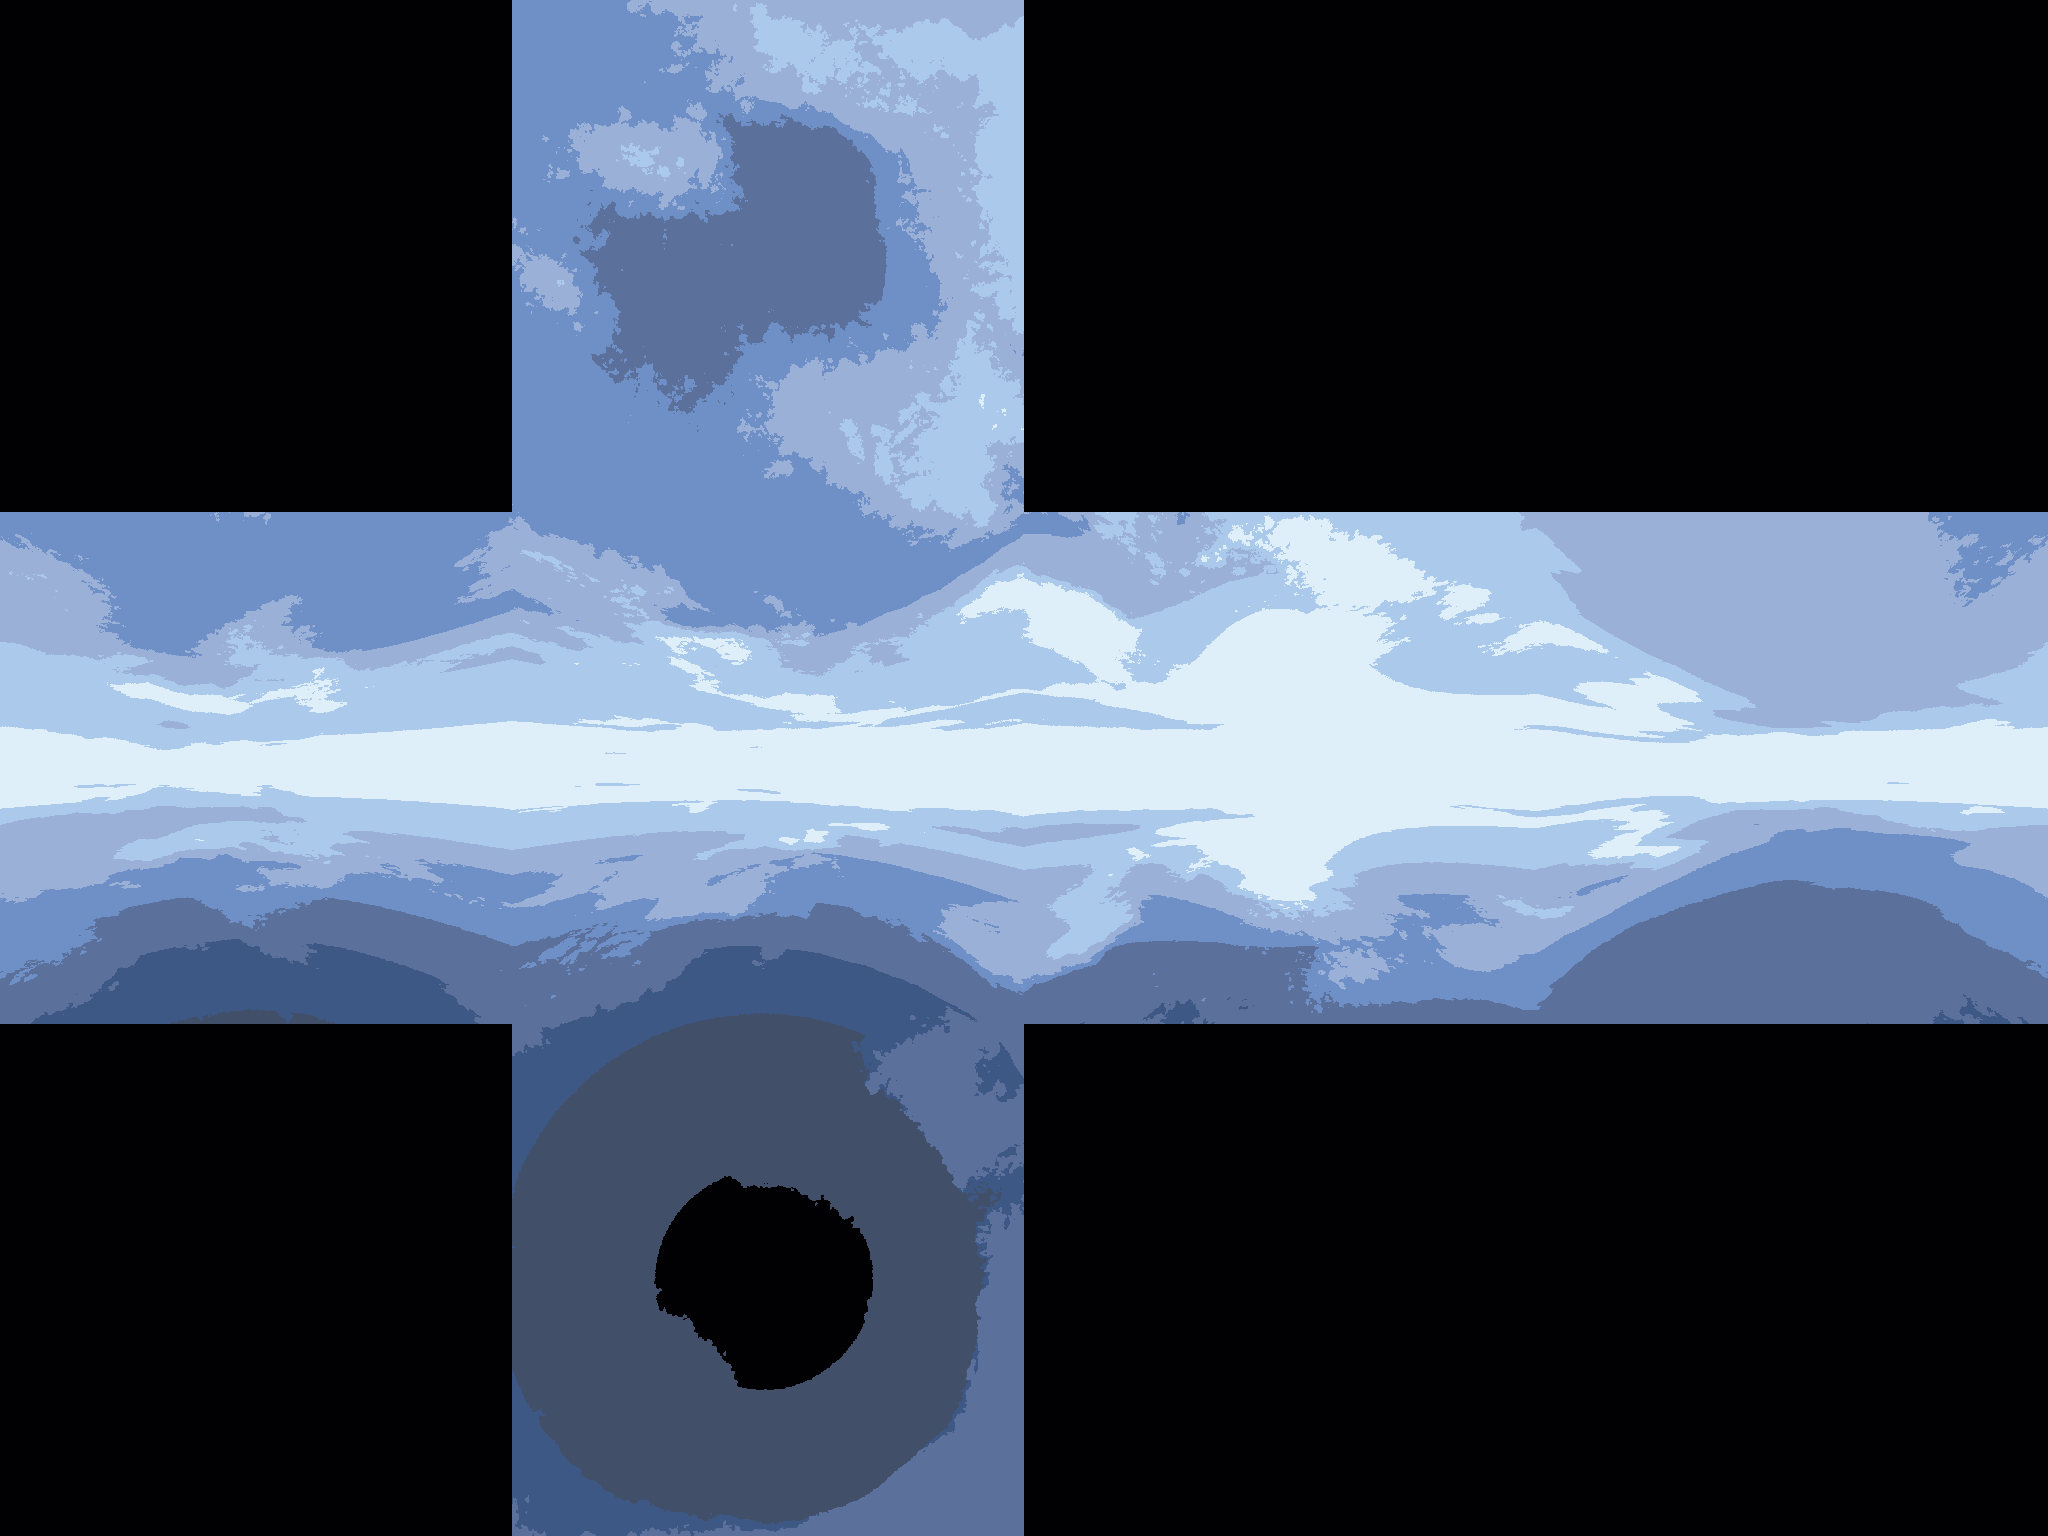
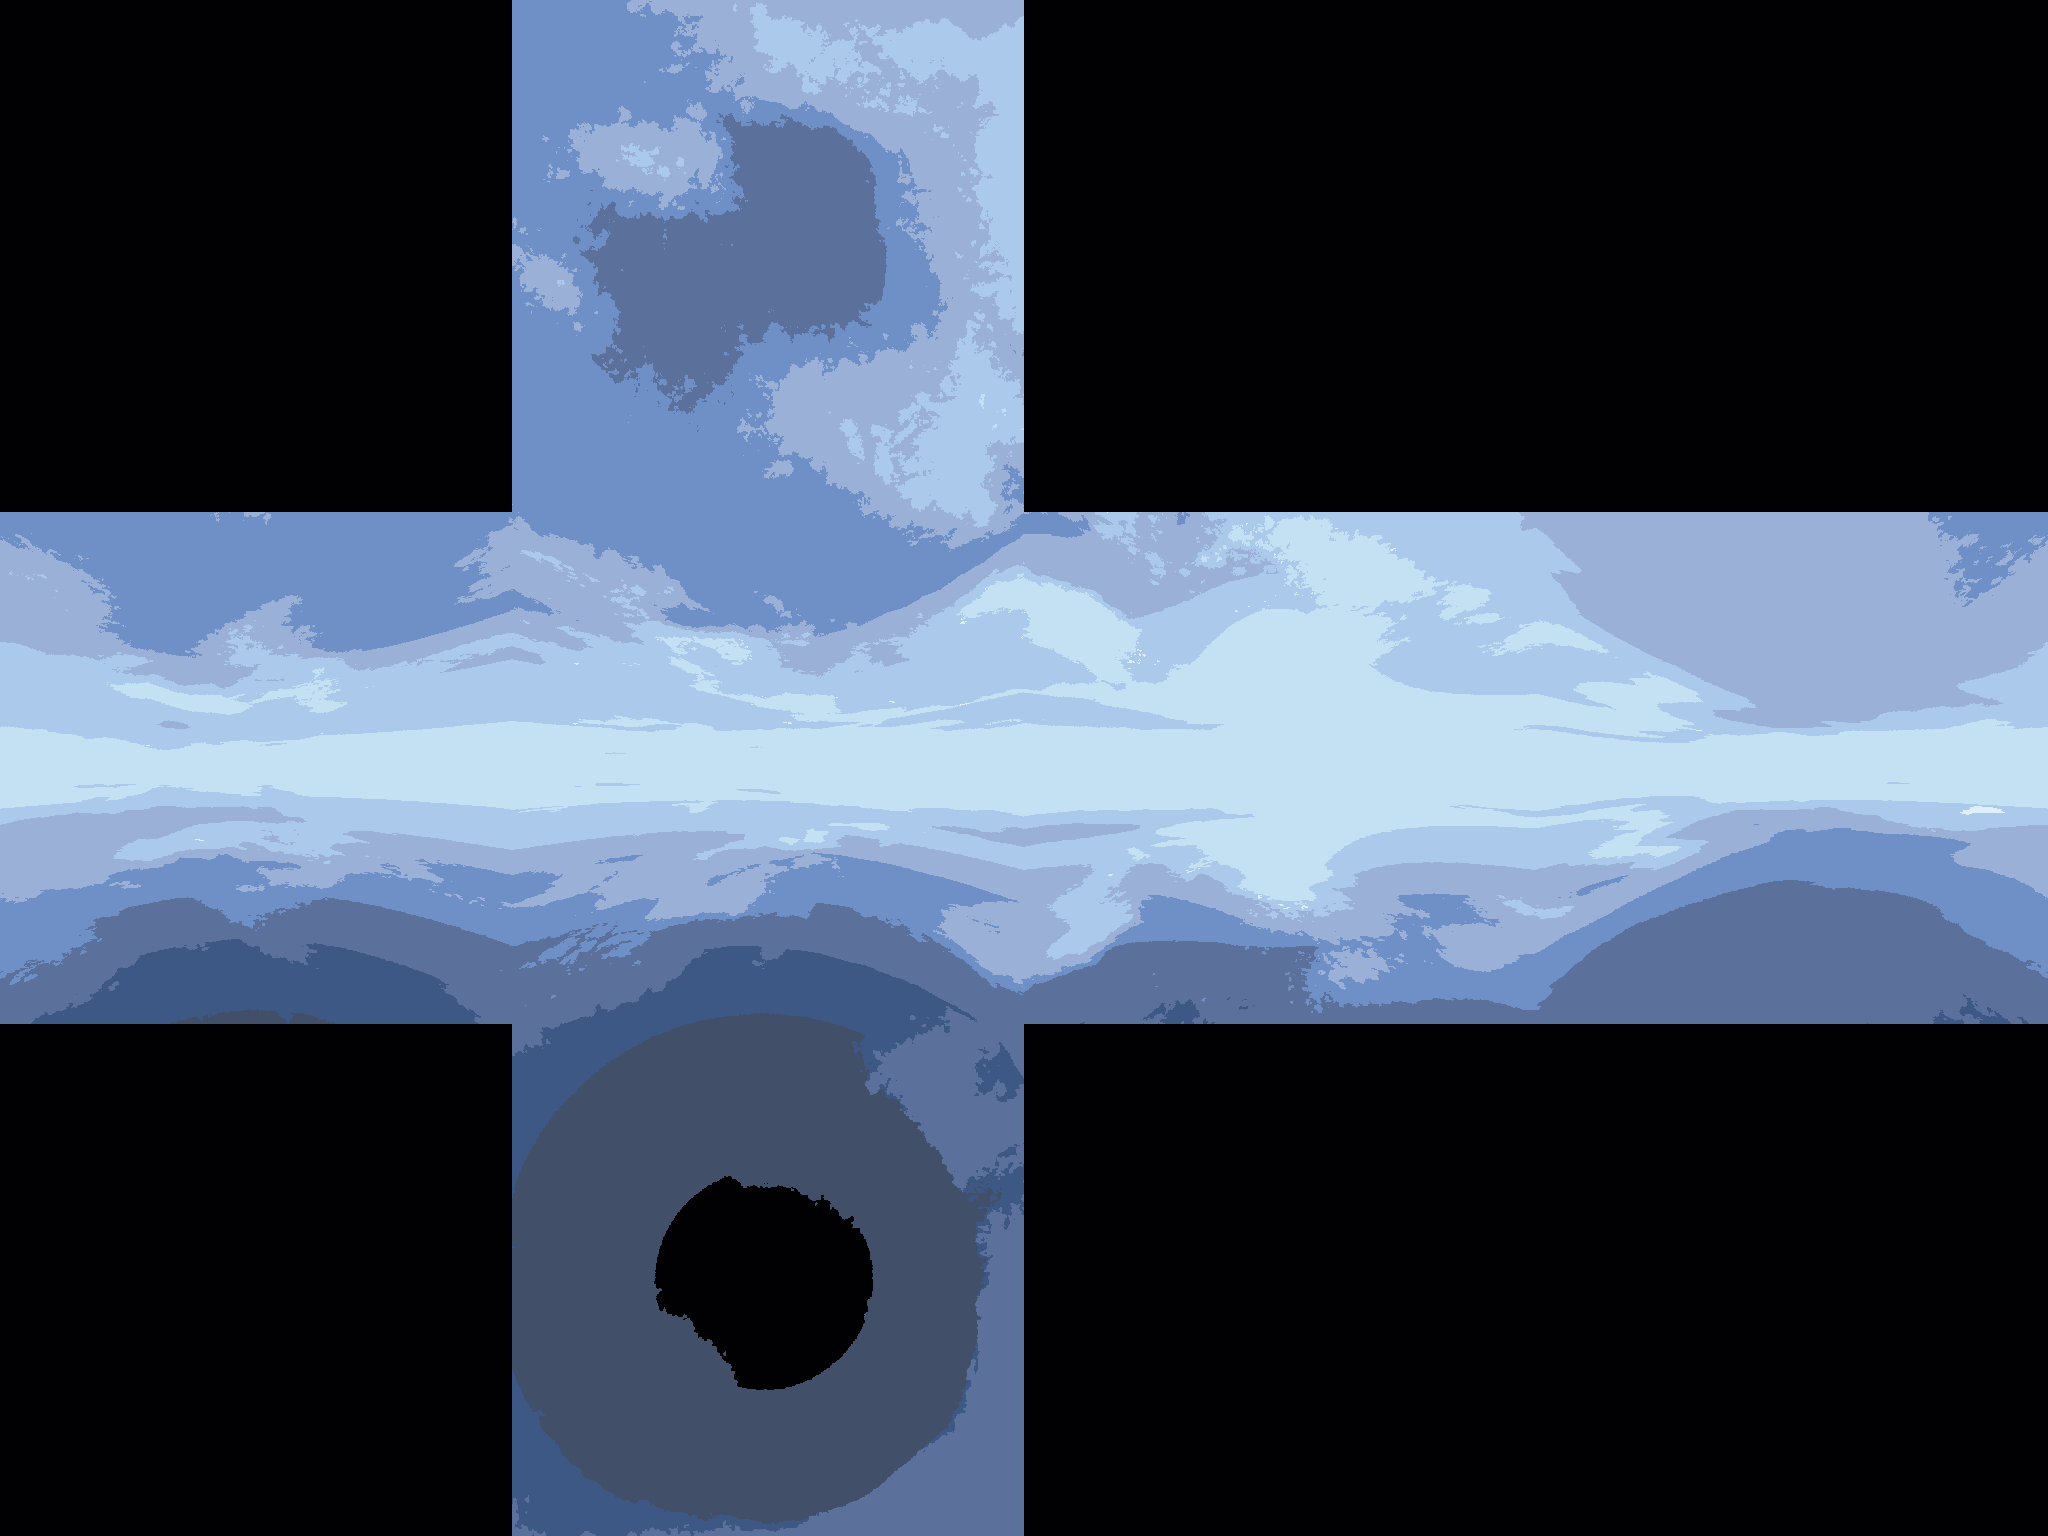
texture changes

Changed region(s): [[0.0, 0.3125, 1.0, 0.5938]]

diff --git a/block_byte_client/src/main.rs b/block_byte_client/src/main.rs
@@ -7,7 +7,7 @@ use std::{
     cell::RefCell,
     collections::{BinaryHeap, HashMap, HashSet},
     fmt::format,
-    hash::Hash,
+    hash::{Hash, Hasher},
     net::{SocketAddr, UdpSocket},
     ops::ControlFlow,
     path::Path,
@@ -34,6 +34,7 @@ use block_byte_common::{
         ModelData, ModelInstance, ModelKey, Registry, ResearchKey, TextureData, TextureKey,
         ToolData, TranslationLanguageData, air_block, load_registries,
     },
+    rotation::BlockRotation,
     ui::{PropertyMap, SlotId},
     world::{self, ClientBlockComponentUpdate, ClientChunkBlockComponents},
 };
@@ -1021,12 +1022,9 @@ impl TextureAtlas {
             );
             packer.pack_own(key, new_image);
         };
-        let skip_list = KeyGroup::<TextureData>::parse("#skip");
         for (i, texture) in TextureKey::entries().enumerate() {
-            if let Some(skip_list) = &skip_list {
-                if skip_list.contains(texture) {
-                    continue;
-                }
+            if texture.text_id().ends_with("!") {
+                continue;
             }
             let texture = texture.data();
             add_texture(TextureAtlasKey::Texture(i), &*texture.texture);
@@ -2297,33 +2295,89 @@ impl ClientChunk {
                                 y: (position.y as f32 * CHUNK_SIZE as f32) + y as f32,
                                 z: (position.z as f32 * CHUNK_SIZE as f32) + z as f32,
                             };
-                            for face in Face::all() {
-                                let neighbor_position = BlockPos {
-                                    x: x as i32,
-                                    y: y as i32,
-                                    z: z as i32,
-                                } + face.get_block_offset();
-                                if let Some(neighbor_block) = get_neighbor(neighbor_position) {
-                                    let neighbor_block_data = neighbor_block.block.data();
-                                    match &neighbor_block_data.render_data {
-                                        BlockRenderData::Air | BlockRenderData::Model { .. } => {}
-                                        BlockRenderData::Full { faces, .. } => {
-                                            continue;
+                            if block.rotation != BlockRotation::default() {
+                                let matrix = get_block_matrix(
+                                    position.to_block_pos()
+                                        + BlockPos {
+                                            x: x as i32,
+                                            y: y as i32,
+                                            z: z as i32,
+                                        },
+                                    block.rotation,
+                                );
+                                for face in Face::all() {
+                                    let neighbor_position =
+                                        BlockPos {
+                                            x: x as i32,
+                                            y: y as i32,
+                                            z: z as i32,
+                                        } + block.rotation.rotate_face(face).get_block_offset();
+                                    if let Some(neighbor_block) = get_neighbor(neighbor_position) {
+                                        let neighbor_block_data = neighbor_block.block.data();
+                                        match &neighbor_block_data.render_data {
+                                            BlockRenderData::Air
+                                            | BlockRenderData::Model { .. } => {}
+                                            BlockRenderData::Full { faces, .. } => {
+                                                continue;
+                                            }
                                         }
                                     }
+                                    //todo: proper tex index
+                                    let texture = faces.by_face(face).tex_coords(0 as usize);
+                                    mesh_consumer.add_quad(face.get_vertices(texture, 0).map(
+                                        |(position, uv)| MeshVertex {
+                                            position: {
+                                                let position = cgmath::Point3::new(
+                                                    position.x - 0.5,
+                                                    position.y,
+                                                    position.z - 0.5,
+                                                );
+                                                let rotated = matrix.transform_point(position);
+                                                Pos {
+                                                    x: rotated.x,
+                                                    y: rotated.y,
+                                                    z: rotated.z,
+                                                }
+                                            },
+                                            normal: face.get_offset(),
+                                            uv,
+                                        },
+                                    ));
                                 }
-                                let texture = faces
-                                    .by_face(face)
-                                    .tex_coords(f32::to_bits(
-                                        base_position.x * base_position.y * base_position.z,
-                                    ) as usize);
-                                mesh_consumer.add_quad(face.get_vertices(texture, 0).map(
-                                    |(position, uv)| MeshVertex {
-                                        position: base_position + position,
-                                        normal: face.get_offset(),
-                                        uv,
-                                    },
-                                ));
+                            } else {
+                                for face in Face::all() {
+                                    let neighbor_position = BlockPos {
+                                        x: x as i32,
+                                        y: y as i32,
+                                        z: z as i32,
+                                    } + face.get_block_offset();
+                                    if let Some(neighbor_block) = get_neighbor(neighbor_position) {
+                                        let neighbor_block_data = neighbor_block.block.data();
+                                        match &neighbor_block_data.render_data {
+                                            BlockRenderData::Air
+                                            | BlockRenderData::Model { .. } => {}
+                                            BlockRenderData::Full { faces, .. } => {
+                                                continue;
+                                            }
+                                        }
+                                    }
+                                    //todo: proper tex index
+                                    let texture = faces.by_face(face).tex_coords(0 as usize);
+                                    let base_position = position.to_block_pos().to_pos()
+                                        + (BlockPos {
+                                            x: x as i32,
+                                            y: y as i32,
+                                            z: z as i32,
+                                        })
+                                        .to_pos();
+                                    mesh_consumer.add_quad(face.get_vertices(texture, 0).map(
+                                        |(position, uv)| MeshVertex {
+                                            position: position + base_position,
+                                            normal: face.get_offset(),
+                                            uv,
+                                        },
+                                    ));
+                                }
                             }
                         }
                         BlockRenderData::Model {

diff --git a/block_byte_common/src/registry.rs b/block_byte_common/src/registry.rs
@@ -156,8 +156,8 @@ macro_rules! create_registries{
                                         .to_string_lossy()
                                         .replace("/", ".")
                                         .replace("\\", ".");
-                                    if id.starts_with("#"){
-                                        *groups.entry(id[1..].to_string()).or_insert_with(||String::new()) += format!("\n{}", std::fs::read_to_string(entry.into_path()).unwrap()).as_str();
+                                    if id.split(".").last().unwrap().starts_with("#"){
+                                        *groups.entry(id.replace("#", "")).or_insert_with(||String::new()) += format!("\n{}", std::fs::read_to_string(entry.into_path()).unwrap()).as_str();
                                     } else {
                                         load_registry.$id.register(id, entry.into_path());
                                     }
@@ -359,6 +359,9 @@ where
     RegistryStorage: RegistryProvider<T>,
 {
     pub fn parse(id: &str) -> Option<Self> {
+        if id.is_empty() {
+            return Some(KeyGroup::Empty);
+        }
         if id.starts_with("#") {
             LOAD_REGISTRIES
                 .get()
@@ -677,7 +680,14 @@ impl BlockRotationMode {
                     Face::Back | Face::Right | Face::Up => face,
                     Face::Front | Face::Left | Face::Down => face.opposite(),
                 };
-                BlockRotation::looking_to(face)
+                BlockRotation::new(
+                    match face {
+                        Face::Front | Face::Back => Face::Up,
+                        _ => Face::Front,
+                    },
+                    face,
+                )
+                .unwrap()
             }
         }
     }
@@ -1463,6 +1473,8 @@ pub struct PrefabEntry {
     pub chance: f32,
     #[serde(default = "default_prefab_replace", skip_serializing)]
     pub replace: KeyGroup<BlockData>,
+    #[serde(default, skip_serializing)]
+    pub replace_inverted: bool,
     pub block: BlockKey,
     #[serde(default)]
     pub rotation: BlockRotation,
@@ -1492,7 +1504,7 @@ impl PrefabData {
         position: BlockPos,
         rotation: HorizontalFace,
         seed: u64,
-        mut callback: impl FnMut(BlockPos, BlockEntry, KeyGroup<BlockData>),
+        mut callback: impl FnMut(BlockPos, BlockEntry, KeyGroup<BlockData>, bool),
     ) {
         let rotation = BlockRotation::looking_to_horizontal(rotation);
         use rand::Rng;
@@ -1517,6 +1529,7 @@ impl PrefabData {
                             .get_nearest_valid(rotation.compose(entry.rotation)),
                     },
                     entry.replace,
+                    entry.replace_inverted,
                 );
             }
         }

diff --git a/block_byte_common/src/lib.rs b/block_byte_common/src/lib.rs
@@ -584,3 +584,12 @@ impl HitTimer {
         self.current_time / self.swing_time
     }
 }
+
+#[derive(Copy, Clone, Hash, PartialEq, Eq)]
+pub enum EntityPose {
+    Stand,
+    Walk,
+    Run,
+    Crouch,
+    CrouchWalk,
+}

diff --git a/block_byte_client/src/render.rs b/block_byte_client/src/render.rs
@@ -1245,8 +1245,8 @@ pub fn draw_block_model(
         BlockRenderData::Full { faces, .. } => {
             for face in Face::all() {
                 vertex_consumer.add_quad(
-                    face.get_vertices(faces.by_face(face).tex_coords(0), 0).map(
-                        |(position, uv)| {
+                    face.get_vertices(faces.by_face(face).tex_coords(face as usize), 0)
+                        .map(|(position, uv)| {
                             let position = position
                                 - Pos {
                                     x: 0.5,
@@ -1258,8 +1258,7 @@ pub fn draw_block_model(
                                 normal: face.get_offset().multiply_vector(matrix).normalize(),
                                 uv,
                             }
-                        },
-                    ),
+                        }),
                 );
             }
         }

diff --git a/block_byte_server/src/worldgen.rs b/block_byte_server/src/worldgen.rs
@@ -536,12 +536,13 @@ pub fn generate_chunk(position: ChunkPos, generator: &WorldGenerator) -> Chunk {
                     block_position,
                     placed_decoration.rotation,
                     placed_decoration.seed,
-                    |place_position, block, replace_list| {
+                    |place_position, block, replace_list, replace_inverted| {
                         let (place_chunk, place_chunk_offset) =
                             place_position.to_chunk_pos_offset();
                         if place_chunk == position {
                             if replace_list
                                 .contains(blocks.get(place_chunk_offset.index()).unwrap().block)
+                                ^ replace_inverted
                             {
                                 blocks.set(place_chunk_offset.index(), &block);
                             }
@@ -565,11 +566,12 @@ pub fn generate_chunk(position: ChunkPos, generator: &WorldGenerator) -> Chunk {
                 placement.position,
                 placement.rotation,
                 placement.seed as u64,
-                |place_position, block, replace_list| {
+                |place_position, block, replace_list, replace_inverted| {
                     let (place_chunk, place_chunk_offset) = place_position.to_chunk_pos_offset();
                     if place_chunk == position {
                         if replace_list
                             .contains(blocks.get(place_chunk_offset.index()).unwrap().block)
+                            ^ replace_inverted
                         {
                             blocks.set(place_chunk_offset.index(), &block);
                         }

diff --git a/generate_assets.py b/generate_assets.py
@@ -17,7 +17,7 @@ def generate_tag(name, content):
     with open(os.path.join(asset_dir, *name.split(".")) + ".txt", "w") as f:
         f.write("\n".join(content))
 
-wood_types = [{"woodType": "oak"}]
+wood_types = [{"woodType": "oak", "barkColor": "48341d", "woodColor": "8c6d47"}]
 for data in wood_types:
     generate("bb:wood_type", data)
 generate_tag("#sticks", ["wood." + data["woodType"] + ".stick" for data in wood_types])
@@ -41,6 +41,7 @@ for data in rock_types:
 
 ore_types = [{"oreType": "magnetite", "oreColor": "646464"}]
 for ore_data in ore_types:
+    break
     generate("bb:ore_type", ore_data)
     for rock_data in rock_types:
         data = dict(ore_data)